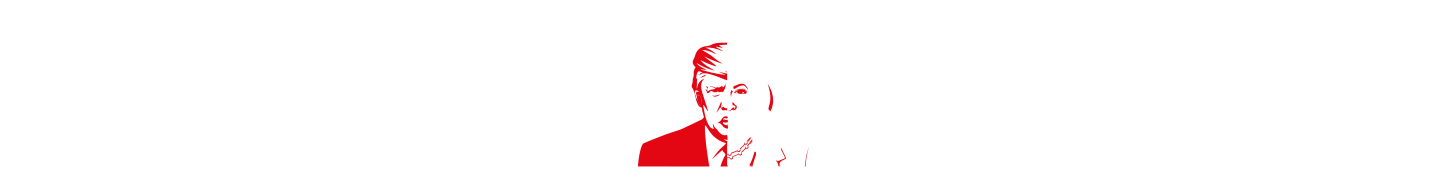
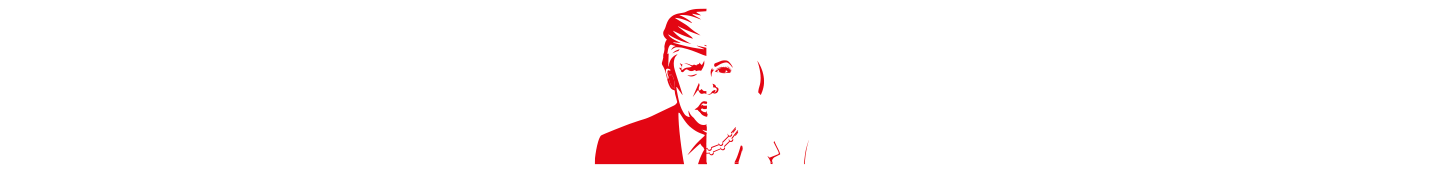
updated 728 and added 320

Changed region(s): [[0.4018, 0.0278, 0.5563, 0.9444]]

diff --git a/320X50/main.js b/320X50/main.js
@@ -20,42 +20,37 @@ function animate() {
   tl.set(["#logo"], { autoAlpha: 0 });
   tl.set(["#faceR"], { x: '-100%', autoAlpha: 1 });
   tl.set(["#left_content"], { x: '5%' });
-  tl.set(["#left_content", "#right_content"], { rotationX: 0.1, scale: 1.3, });
+  tl.set(["#left_content", "#right_content"], { rotationX: 0.1, scale: 1.1, });
   tl.set(["#h1L"], { x: '100%', autoAlpha: 1 });
   tl.set(["#h1R"], { x: '-100%', autoAlpha: 1 });
-  tl.set(["#legal"], { y: '100%', autoAlpha: 1 });
+  tl.set(["#legal"], { x: '-100%', autoAlpha: 1 });
 
   tl.addLabel('frame_1', 0.5)
-    .to('#right_content', 0.5, { width: 'calc(50% + 14.5px)', ease: Power2.easeOut }, "frame_1")
+    .to('#right_content', 0.5, { width: '50.8%', ease: Power2.easeOut }, "frame_1")
     .to(['#faceR'], 0.45, { x: '-5%', ease: Power2.easeOut }, "frame_1")
-    .to(['#faceR'], 0.7, { x: '-4px', ease: Power2.easeOut }, "frame_1+=0.3")
+    .to(['#faceR'], 0.7, { x: '0px', ease: Power2.easeOut }, "frame_1+=0.3")
     .to(['#left_content'], 0.7, { x: 0, ease: Power2.easeOut }, "frame_1+=0.3")
-    .to('#legal', 1, { autoAlpha: 1, y: 0, ease: Power2.easeOut }, "frame_1+=1")
     .to(['#left_content', '#right_content'], 1, { scale: 1, ease: Power2.easeOut }, "frame_1+=1.1")
-    .to('#right_content', 1, { width: 'calc(50% + 10.5px)', ease: Power2.easeOut }, "frame_1+=1.1")
-    .to(['#faceR'], 1, { x: '0px', ease: Power2.easeOut }, "frame_1+=1.1")
+    // .to('#right_content', 1, { width: 'calc(50% + 10.5px)', ease: Power2.easeOut }, "frame_1+=1.1")
+    // .to(['#faceR'], 1, { x: '0px', ease: Power2.easeOut }, "frame_1+=1.1")
     .to(['#h1L', '#h1R'], 0.5, { x: 0, ease: Power2.easeOut }, "frame_1+=1.5")
 
-
-    // .to('#right_content', 1, { width: 'calc(50% - 60px)', ease: Power1.easeOut }, "frame_1+=3")
-    // .to(['#faceL', '#faceR'], 1, { x: '60px', ease: Power1.easeOut }, "frame_1+=3")
-    // .to('#right_content', 1, { width: 'calc(50% + 60px)', ease: Power1.easeNone }, "frame_1+=4")
-    // .to(['#faceL', '#faceR'], 1, { x: '-60px', ease: Power1.easeNone }, "frame_1+=4")
-    // .to('#right_content', 1, { width: 'calc(50% - 50px)', ease: Power1.easeNone }, "frame_1+=5")
-    // .to(['#faceL', '#faceR'], 1, { x: '50px', ease: Power1.easeNone }, "frame_1+=5")
-    .to('#right_content', 2, { width: '108.5%', ease: Power1.easeNone }, "frame_1+=3")
-    .to(['#faceL', '#faceR',], 2, { x: '-57%', ease: Power1.easeNone }, "frame_1+=3")
-    .to(['#h1R',], 0.5, { autoAlpha: 0, ease: Power1.easeIn }, "frame_1+=5")
-    .to(['#right_content'], 0, { width: '100%' }, "frame_1+=5.5")
+    .to('#right_content', 2, { width: '110.8%', ease: Power1.easeNone }, "frame_1+=3")
+    .to(['#faceL', '#faceR',], 2, { x: '-60%', ease: Power1.easeNone }, "frame_1+=3")
+    .to(['#h1R',], 0.5, { autoAlpha: 0, ease: Power1.easeIn }, "frame_1+=4.5")
+    .to(['#right_content'], 0, { width: '100%' }, "frame_1+=5")
 
 
-  tl.addLabel('frame_2', 6)
+  tl.addLabel('frame_2', 5.5)
     .to(['#h2', '#phn'], 0.5, { autoAlpha: 1, ease: Power2.easeOut }, "frame_2+=0")
-    .to(['#h2'], 0.5, { autoAlpha: 0, ease: Power2.easeOut }, "frame_2+=3")
-    .to(['#h3'], 0.5, { autoAlpha: 1, ease: Power2.easeOut }, "frame_2+=3.5")
-  tl.addLabel('frame_3', 13)
+    .to(['#h2'], 0.5, { autoAlpha: 0, ease: Power2.easeOut }, "frame_2+=2.5")
+    .to(['#h3'], 0.5, { autoAlpha: 1, ease: Power2.easeOut }, "frame_2+=3")
+  tl.addLabel('frame_3', 11)
     .to(['#h3', '#phn'], 0.5, { autoAlpha: 0, ease: Power2.easeOut }, "frame_3+=0")
-    .to(['#h4', '#logo', '#cta'], 0.5, { autoAlpha: 1, ease: Power2.easeOut }, 'frame_3+=0.5')
+    .to(['#h4', '#logo'], 0.5, { autoAlpha: 1, ease: Power2.easeOut }, 'frame_3+=0.5')
+    .to(['#h4',], 0.5, { autoAlpha: 0, ease: Power2.easeOut }, 'frame_3+=3')
+    .to(['#cta'], 0.5, { autoAlpha: 1, ease: Power2.easeOut }, 'frame_3+=3.5')
+    .to('#legal', 0.5, { autoAlpha: 1, x: 0, ease: Power2.easeOut }, "frame_3+=3.5")
 
 }
 

diff --git a/320X50/index.html b/320X50/index.html
@@ -5,7 +5,7 @@
   <meta http-equiv="Content-Type" content="text/html; charset=utf-8" />
   <meta name="viewport" content="width=device-width, initial-scale=1.0" />
   <meta http-equiv="X-UA-Compatible" content="IE=edge,chrome=1" />
-  <meta name="ad.size" content="width=728,height=90" />
+  <meta name="ad.size" content="width=728,height=50" />
   <link rel="stylesheet" type="text/css" href="styles.css" />
   <script type="text/javascript" src="https://cdnjs.cloudflare.com/ajax/libs/gsap/3.11.1/gsap.min.js"></script>
   <title></title>
@@ -23,28 +23,32 @@
         <img src="./images/face.png" id="faceL" class="full-width pos-abs left-0" />
         <!-- <img src="./images/text1L.png" id="h1L" class="full-width full-height pos-abs left-0 top-0 hidden" /> -->
         <div id="h1L" class="full-width pos-abs left-0 hidden text_red text_MatterBold">
-          Whatever happens, <span>it’s good to have options</span>
+          <div>Whatever <br>happens,</div> <div>it’s good to <br>have options</div>
         </div>
       </div>
       <div id="right_content" class="pos-abs full-width full-height pos-abs right-0 top-0 of-hide">
         <img src="./images/face.png" id="faceR" class="full-width full-height pos-abs right-0 top-0 hidden" />
         <div id="h1R" class="full-width pos-abs right-0 hidden text_white text_MatterBold">
-          Whatever happens, <span>it’s good to have options</span>
+          <div>Whatever <br>happens,</div> <div>it’s good to <br>have options</div>
         </div>
         <div id="h2" class="pos-abs hidden text_white text_MatterBold">
-          Like an award-winning <span>specialist platform<sup class="pos-abs">*</sup></span>
+          Like an award-winning <br>specialist platform<sup>*</sup>
         </div>
         <div id="h3" class="pos-abs hidden text_white text_MatterBold">
-          and the quality of <span>customer service to match</span>
+          and the quality of <br>customer service to match
         </div>
         <img src="./images/phn.png" id="phn" class="full-width full-height pos-abs left-0 top-0 hidden" />
       </div>
 
       <div id="h4" class="pos-abs hidden text_white text_MatterBold">
-        Choose a new way to trade US options and futures
+        Choose a new way to trade<br> US options and futures
       </div>
-      <div id="legal" class="legal hidden pos-abs left-0 bottom-0 right-0 text_white text_MatterBold">
-        When trading options and futures, losses can exceed your original investment. <sup>*</sup>Best Platform for Options Trading, ADVFN 2024.
+      <div id="legal" class="legal hidden pos-abs left-0 bottom-0 top-0 text_white text_MatterBold">
+        When trading options and <br>
+        futures, losses can exceed <br>
+        your original investment. <br>
+        <sup>*</sup>Best Platform for Options <br>
+        Trading, ADVFN 2024.
       </div>
 
       <img src="./images/logo.png" id="logo" class="full-width full-height pos-abs left-0 top-0 hidden" />

diff --git a/320X50/styles.css b/320X50/styles.css
@@ -26,11 +26,11 @@ img {
 }
 
 .full-width {
-  width: 728px;
+  width: 320px;
 }
 
 .full-height {
-  height: 90px;
+  height: 50px;
 }
 
 .left-0 {
@@ -98,66 +98,65 @@ img {
 
 #h1L,
 #h1R {
-  text-align: center;
-  top: 28px;
-  font-size: 17.5px;
+  display: flex;
+  justify-content: center;
+  gap: 122px;
+  top: 12px;
+  font-size: 13px;
   letter-spacing: 0px;
   line-height: 1;
 }
 
-#h1L span,
-#h1R span {
-  margin-left: 110px;
-  margin-right: -20px;
+#h1L div,
+#h1R div {
+  width: auto;
+  text-align: center;
+  margin-left: 4px;
+  margin-right: 0px;
 }
 
 #h2,
-#h3 {
-  top: 25px;
-  left: 114px;
-  font-size: 17.2px;
-}
-
-#h3 {
-  left: 153px
-}
-
-#h2 span,
-#h3 span {
-  margin-left: 113px;
-}
-
+#h3,
 #h4 {
-  top: 29px;
-  left: 18px;
-  font-size: 17.4px;
+  top: 12px;
+  left: 59px;
+  font-size: 12.7px;
+  line-height: 0.85;
+  width: auto;
+  text-align: center;
+}
+
+#h3{
+  left: 44px;
+}
+#h4 {
+  left: 40px;
 }
 
 .legal {
   background-color: #000;
-  font-size: 11px;
-  letter-spacing: 0.12px;
-  line-height: 0.75;
-  text-align: center;
-  padding: 2px;
-  padding-bottom: 4px;
+  font-size: 9.5px;
+  letter-spacing: 0px;
+  line-height: 1;
+  text-align: left;
+  padding: 1px 5px;
 }
 
 .legal sup {
-  font-size: 7px;
+  font-size: 6px;
 }
 
 .cta {
   text-align: center;
   transform-origin: center;
   background: #fff;
-  font-size: 10px;
+  font-size: 8px;
   line-height: 1;
   letter-spacing: -0.3px;
-  right: 19px;
-  top: 25px;
-  width: 96px;
-  height: 30px;
+  right: 100px;
+  top: 12px;
+  width: 79px;
+  height: 26px;
   border-radius: 50px;
   display: flex;
   justify-content: center;

diff --git a/index.html b/index.html
@@ -99,6 +99,7 @@
     <a target="_blank" href="./800X600/index.html">800x600</a> -->
 
     <a target="_blank" href="./728X90/index.html">728x90</a>
+    <a target="_blank" href="./320X50/index.html">320X50</a>
   </div>
 
   <!-- <div class="all_box mt-4 buttons">
